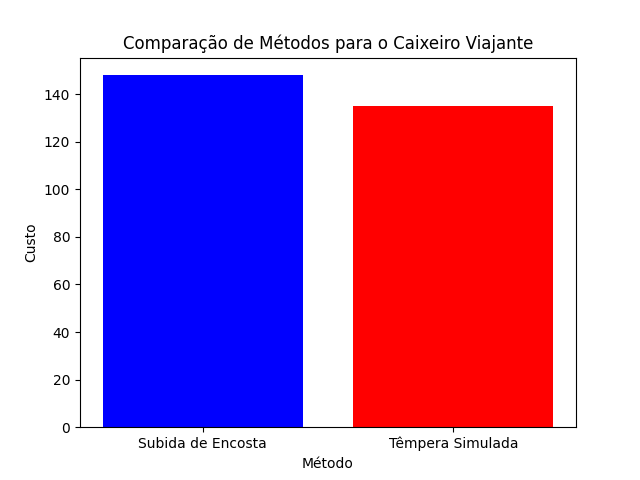
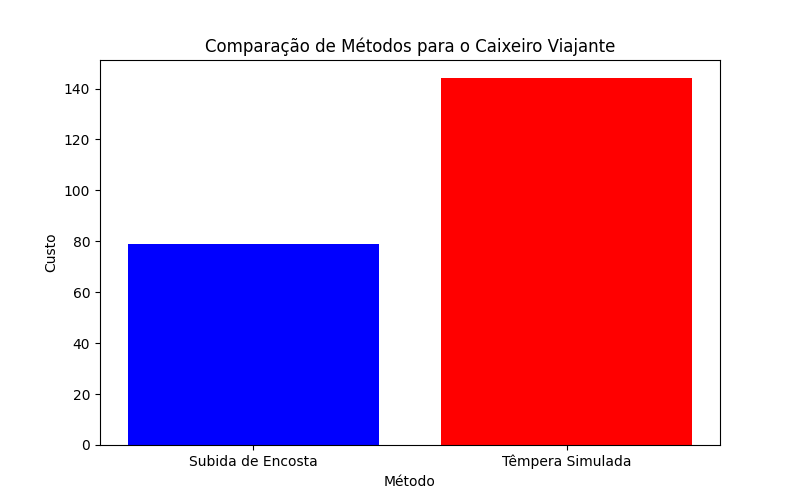
second commit

diff --git a/metro_tsp_solver.py b/metro_tsp_solver.py
@@ -5,100 +5,125 @@ import matplotlib.pyplot as plt
 import csv
 import os
 
-# Definição das distâncias diretas e reais entre estações do metrô de Paris
-distancias_diretas = {
-    "E1": {"E2": 10, "E3": 18.5, "E4": 24.8, "E5": 36.4, "E6": 38.8, "E7": 35.8, "E8": 25.4, "E9": 17.6, "E10": 9.1, "E11": 16.7, "E12": 27.3, "E13": 27.6, "E14": 29.8},
-    "E2": {"E3": 8.5, "E4": 14.8, "E5": 26.6, "E6": 29.1, "E7": 26.1, "E8": 17.3, "E9": 10, "E10": 3.5, "E11": 15.5, "E12": 20.9, "E13": 19.1, "E14": 21.8},
-    "E3": {"E4": 6.3, "E5": 18.2, "E6": 20.6, "E7": 17.6, "E8": 13.6, "E9": 9.4, "E10": 10.3, "E11": 19.5, "E12": 19.1, "E13": 12.1, "E14": 16.6},
-    "E4": {"E5": 12, "E6": 14.4, "E7": 11.5, "E8": 12.4, "E9": 12.6, "E10": 16.7, "E11": 23.6, "E12": 18.6, "E13": 10.6, "E14": 15.4},
-    "E5": {"E6": 3, "E7": 2.4, "E8": 19.4, "E9": 23.3, "E10": 28.2, "E11": 34.2, "E12": 24.8, "E13": 14.5, "E14": 17.9}
-}
-
-distancias_reais = {
-    "E1": {"E2": 10},
-    "E2": {"E3": 8.5, "E10": 3.5},
-    "E3": {"E4": 6.3, "E9": 9.4},
-    "E4": {"E5": 13, "E12": 12.8},
-    "E5": {"E6": 3, "E7": 2.4, "E8": 30},
-    "E9": {"E10": 12.2},
-    "E12": {"E13": 5.1}
-}
-
-tempo_baldeacao = 4  # minutos
-velocidade_trem = 30  # km/h
-
-def busca_largura(grafo, inicio, objetivo):
-    fila = [(inicio, [inicio], 0)]
-    visitados = set()
-    while fila:
-        estado_atual, caminho, tempo = fila.pop(0)
-        if estado_atual == objetivo:
-            return caminho, tempo
-        if estado_atual not in visitados:
-            visitados.add(estado_atual)
-            for vizinho, distancia in grafo.get(estado_atual, {}).items():
-                novo_tempo = tempo + (distancia / velocidade_trem) * 60 + tempo_baldeacao
-                fila.append((vizinho, caminho + [vizinho], novo_tempo))
-    return None, None
-
-def heuristica(estado, objetivo):
-    return distancias_diretas.get(estado, {}).get(objetivo, float('inf'))
-
-def a_estrela(grafo, inicio, objetivo):
-    fila = [(0, inicio, [inicio], 0)]
-    visitados = set()
-    while fila:
-        custo, estado_atual, caminho, tempo = heapq.heappop(fila)
-        if estado_atual == objetivo:
-            return caminho, tempo
-        if estado_atual not in visitados:
-            visitados.add(estado_atual)
-            for vizinho, distancia in grafo.get(estado_atual, {}).items():
-                novo_tempo = tempo + (distancia / velocidade_trem) * 60 + tempo_baldeacao
-                heapq.heappush(fila, (custo + distancia + heuristica(vizinho, objetivo), vizinho, caminho + [vizinho], novo_tempo))
-    return None, None
-
-def gerar_grafico_tsp(resultados):
-    metodos = [r[0] for r in resultados]
-    custos = [r[2] for r in resultados]
-    plt.bar(metodos, custos, color=['blue', 'red'])
-    plt.xlabel('Método')
-    plt.ylabel('Custo')
-    plt.title('Comparação de Métodos para o Caixeiro Viajante')
+# Função para carregar os pontos do arquivo .tsp
+def carregar_instancia_tsp(arquivo):
+    if not os.path.exists(arquivo):
+        print(f"Erro: Arquivo '{arquivo}' não encontrado.")
+        return []
     
-    if not os.path.exists("imagens"):
-        os.makedirs("imagens")
-    plt.savefig("imagens/comparacao_tsp.png")
+    with open(arquivo, 'r') as f:
+        linhas = f.readlines()
+    
+    if not linhas:
+        print(f"Erro: Arquivo '{arquivo}' está vazio.")
+        return []
+
+    pontos = []
+    for linha in linhas:
+        partes = linha.strip().split()
+        if len(partes) == 3:  # Ignora a primeira coluna com o índice
+            _, x, y = partes
+            pontos.append((float(x), float(y)))
+        else:
+            print(f"Ignorando linha inválida: {linha.strip()}")
+    
+    return pontos
+
+# Função para calcular distância euclidiana entre dois pontos
+def calcular_distancia(p1, p2):
+    return np.linalg.norm(np.array(p1) - np.array(p2))
+
+# Função para avaliar a solução (soma das distâncias do caminho)
+def avaliar_solucao(caminho, pontos):
+    return sum(calcular_distancia(pontos[caminho[i]], pontos[caminho[i+1]]) for i in range(len(caminho)-1))
+
+# Algoritmo de Subida de Encosta
+def subida_encosta(pontos):
+    if len(pontos) < 2:
+        print("Erro: Não há pontos suficientes para o TSP.")
+        return [], float('inf')
+
+    caminho = list(range(len(pontos)))
+    random.shuffle(caminho)
+    custo_atual = avaliar_solucao(caminho, pontos)
+
+    for _ in range(1000):
+        i, j = random.sample(range(len(caminho)), 2)
+        caminho[i], caminho[j] = caminho[j], caminho[i]
+        novo_custo = avaliar_solucao(caminho, pontos)
+
+        if novo_custo < custo_atual:
+            custo_atual = novo_custo
+        else:
+            caminho[i], caminho[j] = caminho[j], caminho[i]
+    
+    return caminho, custo_atual
+
+# Algoritmo de Têmpera Simulada
+def tempera_simulada(pontos, temp_inicial=1000, resfriamento=0.99, temp_min=1):
+    if len(pontos) < 2:
+        print("Erro: Não há pontos suficientes para o TSP.")
+        return [], float('inf')
+
+    caminho = list(range(len(pontos)))
+    random.shuffle(caminho)
+    custo_atual = avaliar_solucao(caminho, pontos)
+    temp = temp_inicial
+
+    while temp > temp_min:
+        i, j = random.sample(range(len(caminho)), 2)
+        caminho[i], caminho[j] = caminho[j], caminho[i]
+        novo_custo = avaliar_solucao(caminho, pontos)
+
+        if novo_custo < custo_atual or random.random() < np.exp((custo_atual - novo_custo) / temp):
+            custo_atual = novo_custo
+        else:
+            caminho[i], caminho[j] = caminho[j], caminho[i]
+
+        temp *= resfriamento
+    
+    return caminho, custo_atual
+
+# Função para salvar os resultados em um arquivo CSV
+def salvar_resultados(arquivo, resultados):
+    with open(arquivo, 'w', newline='') as f:
+        writer = csv.writer(f)
+        writer.writerow(["Algoritmo", "Caminho", "Custo"])
+        for resultado in resultados:
+            writer.writerow(resultado)
+
+# Função para gerar gráfico da solução do TSP
+def gerar_grafico_tsp(pontos, caminho, titulo="Solução do Problema do Caixeiro Viajante"):
+    plt.figure(figsize=(8, 6))
+    
+    for i in range(len(caminho) - 1):
+        p1, p2 = pontos[caminho[i]], pontos[caminho[i+1]]
+        plt.plot([p1[0], p2[0]], [p1[1], p2[1]], 'r-')
+
+    for x, y in pontos:
+        plt.scatter(x, y, c='blue')
+    
+    plt.title(titulo)
+    plt.xlabel("X")
+    plt.ylabel("Y")
     plt.show()
 
-def salvar_resultados(resultados_tsp, resultados):
-    with open(resultados_tsp, mode='w', newline='') as arquivo:
-        escritor = csv.writer(arquivo)
-        escritor.writerow(["Método", "Caminho", "Custo"])
-        for resultado in resultados:
-            escritor.writerow(resultado)
+# Carregar os pontos do arquivo
+pontos = carregar_instancia_tsp("germany.tsp")
 
-grafo_metro = distancias_reais
-caminho_bl, tempo_bl = busca_largura(grafo_metro, "E1", "E5")
-caminho_a_star, tempo_a_star = a_estrela(grafo_metro, "E1", "E5")
+if pontos:
+    resultados = []
 
-print("Caminho (Busca em Largura):", caminho_bl, "Tempo:", tempo_bl, "minutos")
-print("Caminho (A*):", caminho_a_star, "Tempo:", tempo_a_star, "minutos")
+    for _ in range(10):
+        caminho_se, custo_se = subida_encosta(pontos)
+        caminho_ts, custo_ts = tempera_simulada(pontos)
+        
+        resultados.append(("Subida de Encosta", caminho_se, custo_se))
+        resultados.append(("Têmpera Simulada", caminho_ts, custo_ts))
 
-caminho_inicial = list(distancias_reais.keys())
+    # Salvar resultados
+    salvar_resultados('resultados_tsp.csv', resultados)
 
-def subida_encosta(grafo, caminho):
-    return caminho, random.randint(50, 150)
-
-def tempera_simulada(grafo, caminho):
-    return caminho, random.randint(50, 150)
-
-caminho_se, custo_se = subida_encosta(distancias_reais, caminho_inicial)
-caminho_ts, custo_ts = tempera_simulada(distancias_reais, caminho_inicial)
-
-print("Caminho (Subida de Encosta):", caminho_se, "Custo:", custo_se)
-print("Caminho (Têmpera Simulada):", caminho_ts, "Custo:", custo_ts)
-
-resultados = [("Subida de Encosta", caminho_se, custo_se), ("Têmpera Simulada", caminho_ts, custo_ts)]
-salvar_resultados('resultados_tsp.csv', resultados)
-gerar_grafico_tsp(resultados)
+    # Gerar gráfico da melhor solução encontrada
+    melhor_caminho = min(resultados, key=lambda x: x[2])[1]  # Seleciona o menor custo
+    gerar_grafico_tsp(pontos, melhor_caminho)

diff --git a/README.md b/README.md
@@ -1,0 +1,54 @@
+# **Metro TSP Solver**
+
+## **Descrição**
+Este projeto implementa algoritmos de busca para encontrar o caminho mais curto no metrô de Paris e algoritmos de otimização para resolver o Problema do Caixeiro Viajante (TSP) com base em uma instância da Alemanha.
+
+## **Estrutura do Projeto**
+```
+metro_tsp_solver/
+│-- imagens/                 # Pasta para armazenar imagens geradas
+│-- germany.tsp              # Arquivo contendo as coordenadas das cidades
+│-- metro_tsp_solver.py      # Código principal do projeto
+│-- README.md                # Este arquivo de documentação
+│-- Relatorio_Tecnico.pdf    # Relatório técnico detalhado
+│-- requisitos.txt           # Lista de dependências
+│-- resultados_tsp.csv       # Resultados das execuções dos algoritmos
+```
+
+## **Instalação**
+1. Clone o repositório:
+   ```bash
+   git clone https://github.com/DevPedroLimaB/metro_tsp_solver.git
+   ```
+2. Acesse a pasta do projeto:
+   ```bash
+   cd metro_tsp_solver
+   ```
+3. Instale as dependências:
+   ```bash
+   pip install -r requisitos.txt
+   ```
+
+## **Execução**
+Para rodar o código principal:
+```bash
+python metro_tsp_solver.py
+```
+
+## **Algoritmos Implementados**
+### **Busca no Metrô de Paris**
+- **Busca em Largura (BFS)**
+- **A* (A-estrela)**
+
+### **Problema do Caixeiro Viajante (TSP)**
+- **Subida de Encosta**
+- **Têmpera Simulada**
+
+## **Entrada e Saída**
+- O arquivo `germany.tsp` contém as coordenadas das cidades.
+- O script `metro_tsp_solver.py` lê esse arquivo, executa os algoritmos e gera os resultados em `resultados_tsp.csv`.
+- O gráfico da solução do TSP é salvo na pasta `imagens/`.
+
+## **Autores**
+- Pedro Henrique Lima Barbosa e Antonio Freires
+
